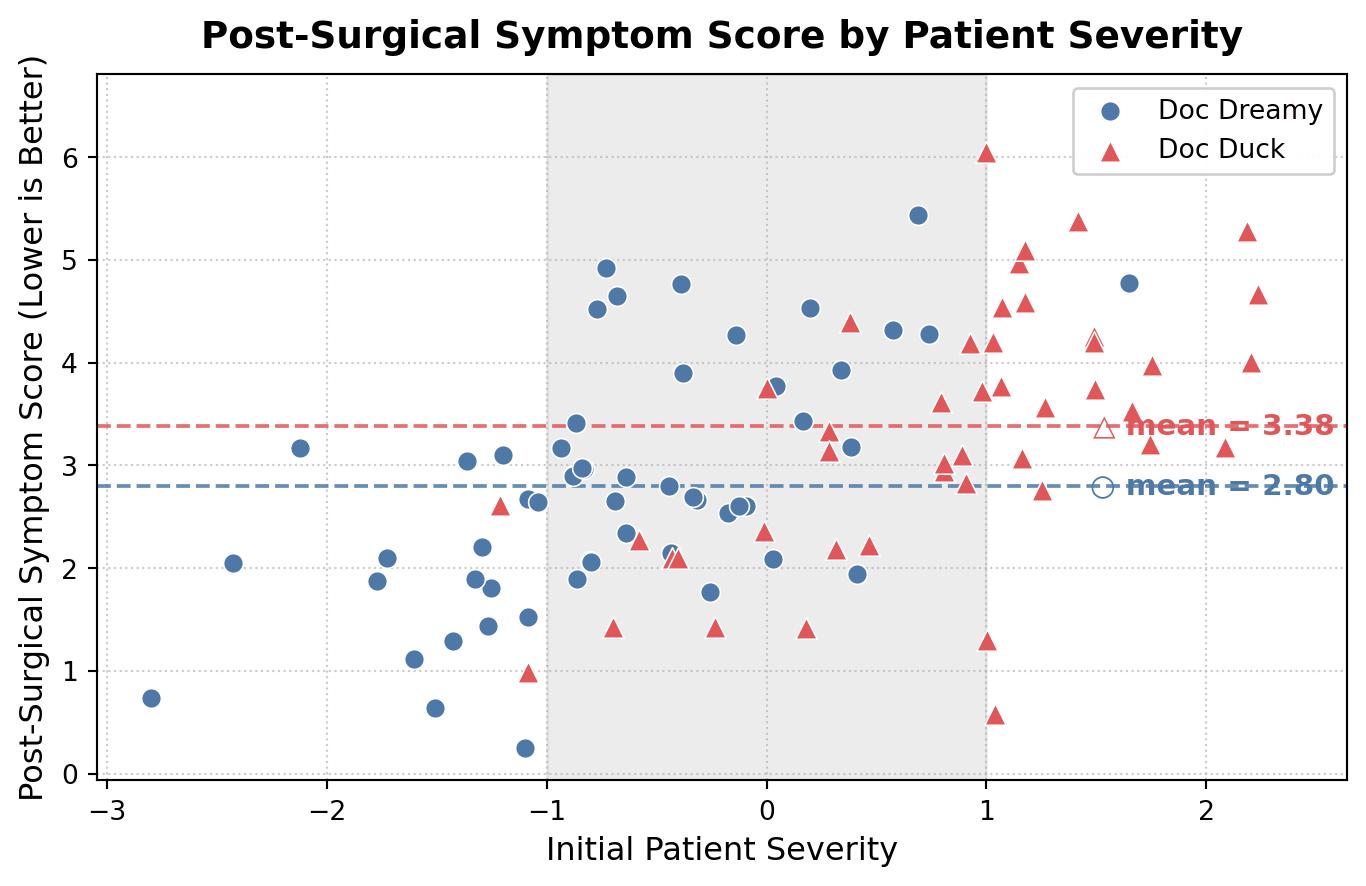
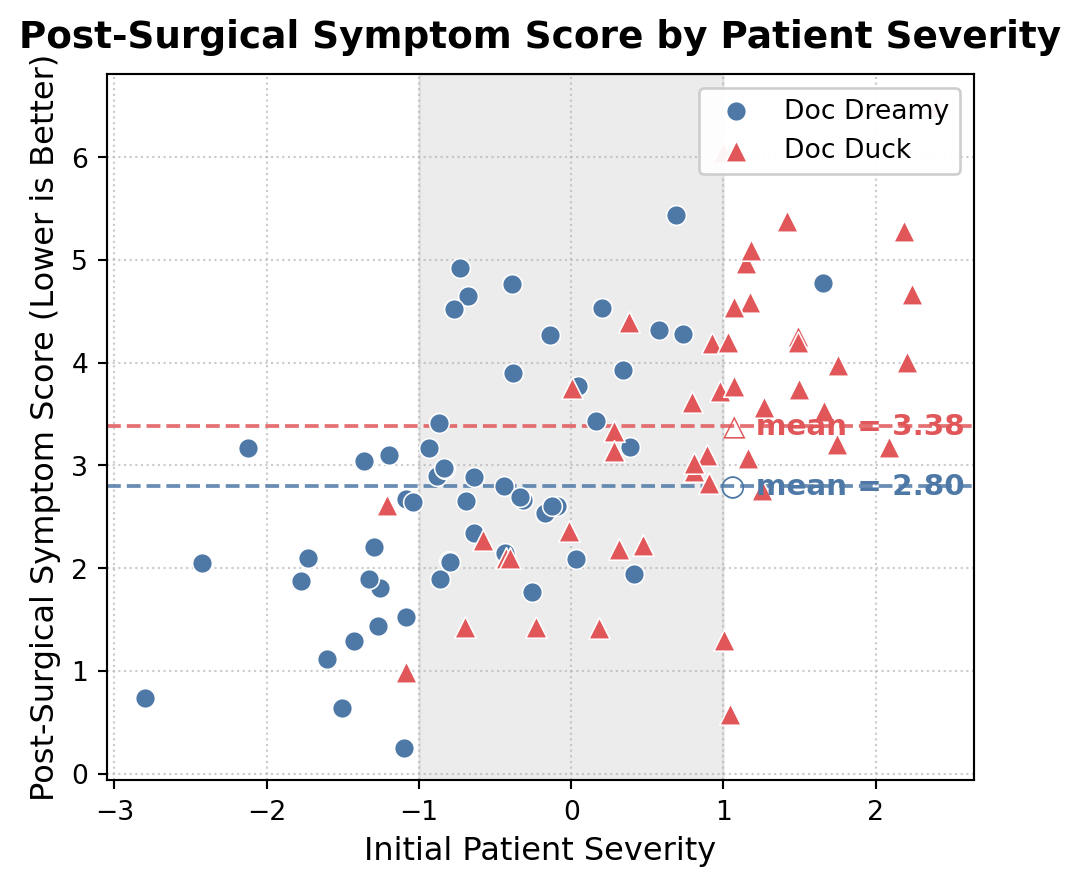
Add change

diff --git a/index.html b/index.html
@@ -144,7 +144,7 @@ window.Quarto = {
 <div class="cell-output cell-output-stdout">
 <pre><code>Number of patients: 100</code></pre>
 </div>
-<div id="load-data-python" class="cell-output cell-output-display" data-execution_count="2">
+<div id="load-data-python" class="cell-output cell-output-display" data-execution_count="9">
 <div>
 
 
@@ -302,7 +302,7 @@ Figure&nbsp;4: DAG Model Explaining Surgical Outcomes
 <div class="cell-output cell-output-stdout">
 <pre><code>Number of randomized patients: 100</code></pre>
 </div>
-<div id="load-data-randomized-python" class="cell-output cell-output-display" data-execution_count="5">
+<div id="load-data-randomized-python" class="cell-output cell-output-display" data-execution_count="12">
 <div>
 
 
@@ -394,7 +394,7 @@ Figure&nbsp;5: Post-Surgical Symptom Score (lower is better) for randomized pati
 <div id="fig-plot-outcomes-severity" class="quarto-float quarto-figure quarto-figure-center anchored">
 <figure class="quarto-float quarto-float-fig figure">
 <div aria-describedby="fig-plot-outcomes-severity-caption-0ceaefa1-69ba-4598-a22c-09a6ac19f8ca">
-<img src="index_files/figure-html/fig-plot-outcomes-severity-output-1.png" width="683" height="443" class="figure-img">
+<img src="index_files/figure-html/fig-plot-outcomes-severity-output-1.png" width="540" height="443" class="figure-img">
 </div>
 <figcaption class="quarto-float-caption-bottom quarto-float-caption quarto-float-fig" id="fig-plot-outcomes-severity-caption-0ceaefa1-69ba-4598-a22c-09a6ac19f8ca">
 Figure&nbsp;6: Post-Surgical Symptom Score (lower is better) by Patient and Severity
